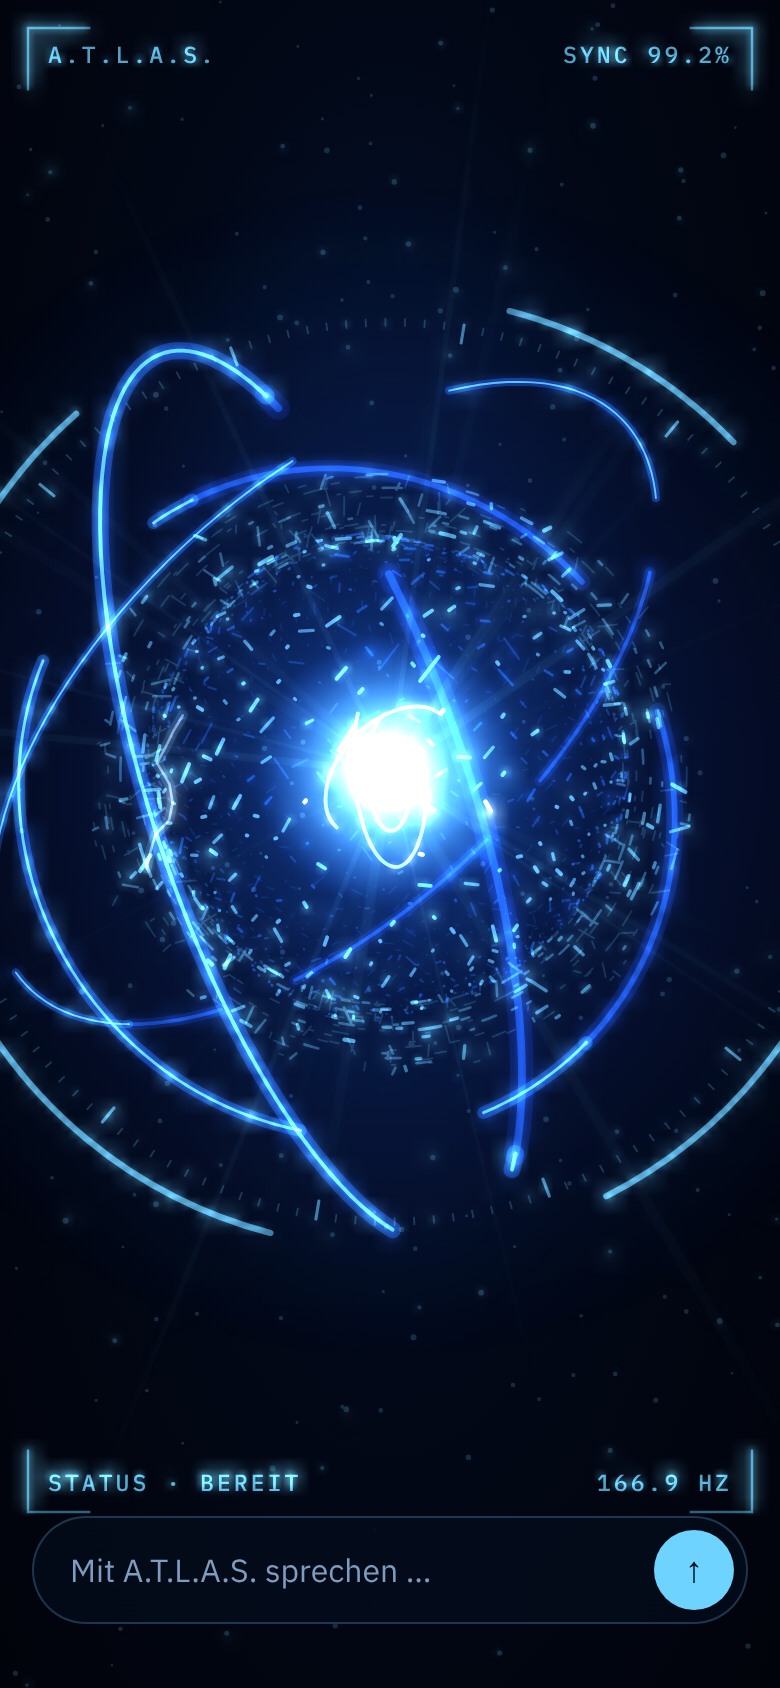
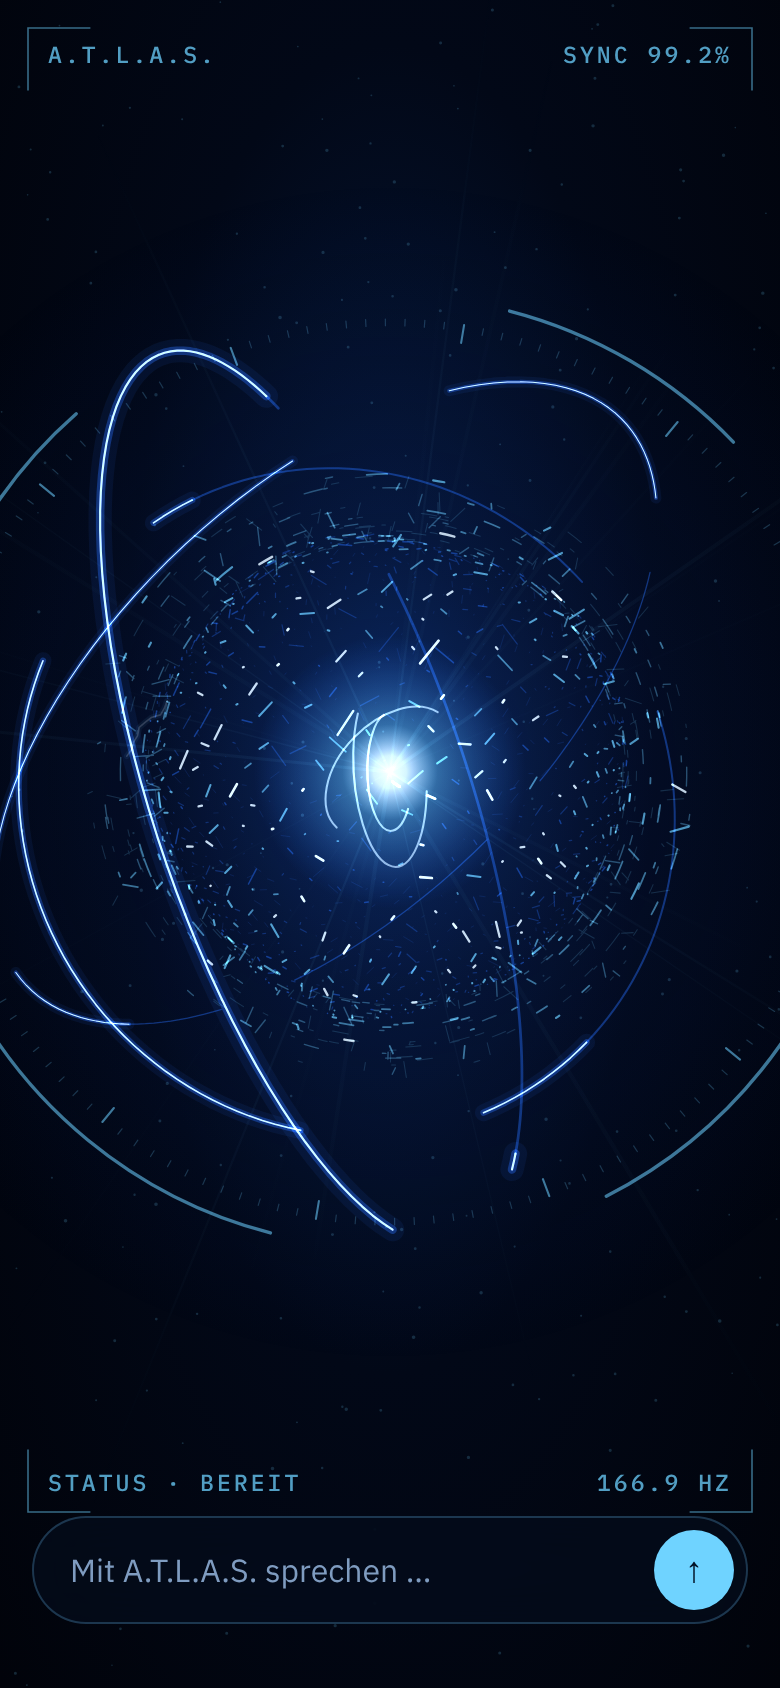
A.T.L.A.S.-Kern: schärfere, feinere Optik
Dünnere Lichtstreifen, Ringe mit hauchdünner heller Kante, feinere Splitter, HUD und Rahmen,
klarerer Plasmakern, weniger Dunst; mehr, dafür feinere Kugelpunkte.

Claude-Session: https://claude.ai/code/session_01Er7eh7iJrbStEKkddCDg1p

diff --git a/ATLAS/ATLAS/UI/Main/AtlasHologramView.swift b/ATLAS/ATLAS/UI/Main/AtlasHologramView.swift
@@ -7,7 +7,7 @@ import SwiftUI
 ///   schießen zu einem riesigen „A.T.L.A.S.“ zusammen (Blitz, Druckwelle, Beben), ein Scan-Strahl
 ///   fährt darüber, der Untertitel tippt sich ein – dann zerfällt der Schriftzug spiralförmig und
 ///   der Kern zündet.
-/// - Kern: Plasmakern, 3D-Kugel aus rund 1.200 Lichtstreifen, drei Gyroskop-Ringe, Energieblitze,
+/// - Kern: Plasmakern, 3D-Kugel aus rund 1.500 feinen Lichtstreifen, drei Gyroskop-Ringe, Energieblitze,
 ///   Splitter-Schale, Lichtstrahlen, schwebender Staub, HUD-Skala und Rahmen mit Telemetrie.
 /// - Reaktionen: Zuhören → Oberfläche folgt Ihrer Stimme; Nachdenken → schnellere Drehung, mehr
 ///   Blitze, Analyse-Strahl; Sprechen → Pulsieren im Wortrhythmus und Schallwellen.
@@ -122,7 +122,7 @@ struct AtlasHologramView: View {
     /// Gleichmäßig verteilte Punkte auf der Einheitskugel (Fibonacci-Gitter).
     fileprivate static let sphere: [SpherePoint] = {
         let random = AtlasHologramView.seeded(5)
-        let count = 1200
+        let count = 1500
         let golden = Double.pi * (3 - sqrt(5))
         return (0..<count).map { i in
             let y = 1 - 2 * (Double(i) + 0.5) / Double(count)
@@ -312,7 +312,7 @@ struct AtlasHologramView: View {
             var y = (d.y * h - t * 3 * d.z).truncatingRemainder(dividingBy: h)
             if x < 0 { x += w }
             if y < 0 { y += h }
-            let s = 0.4 + d.z * 1.1
+            let s = 0.25 + d.z * 0.65
             path.addEllipse(in: CGRect(x: x - s, y: y - s, width: s * 2, height: s * 2))
         }
         ctx.fill(path, with: .color(Self.iceColor.opacity(0.18)))
@@ -330,7 +330,7 @@ struct AtlasHologramView: View {
             path.addLine(to: end)
             ctx.stroke(path, with: .linearGradient(
                 Gradient(colors: [ice.opacity(alpha * 2), ice.opacity(0)]), startPoint: center, endPoint: end),
-                       lineWidth: ray.width * L.unit * 2)
+                       lineWidth: ray.width * L.unit * 0.8)
         }
     }
 
@@ -338,7 +338,7 @@ struct AtlasHologramView: View {
         let radius = L.R * 2.6
         ctx.fill(circle(L.cx, L.cy, radius), with: .radialGradient(
             Gradient(stops: [
-                .init(color: Self.blue.opacity(0.25 + 0.2 * en + 0.06 * pulse), location: 0),
+                .init(color: Self.blue.opacity(0.2 + 0.14 * en + 0.04 * pulse), location: 0),
                 .init(color: Self.deep.opacity(0.14 + 0.06 * en), location: 0.4),
                 .init(color: Self.deep.opacity(0), location: 1),
             ]), center: CGPoint(x: L.cx, y: L.cy), startRadius: 0, endRadius: radius))
@@ -350,8 +350,8 @@ struct AtlasHologramView: View {
         ctx.fill(circle(L.cx, L.cy, radius), with: .radialGradient(
             Gradient(stops: [
                 .init(color: Color.white.opacity(0.95), location: 0),
-                .init(color: Self.hot.opacity(0.8), location: 0.15),
-                .init(color: ice.opacity(0.35 + 0.2 * en), location: 0.45),
+                .init(color: Self.hot.opacity(0.9), location: 0.12),
+                .init(color: ice.opacity(0.35 + 0.15 * en), location: 0.35),
                 .init(color: Self.blue.opacity(0), location: 1),
             ]), center: CGPoint(x: L.cx, y: L.cy), startRadius: 0, endRadius: radius))
     }
@@ -381,14 +381,13 @@ struct AtlasHologramView: View {
                 }
             }
             let width = gyro.width * L.unit
-            ctx.stroke(back, with: .color(Self.deep.opacity(0.35)), style: StrokeStyle(lineWidth: width * 3, lineCap: .round))
-            ctx.stroke(back, with: .color(Self.blue.opacity(0.35)), style: StrokeStyle(lineWidth: width, lineCap: .round))
+                        ctx.stroke(back, with: .color(Self.blue.opacity(0.4)), style: StrokeStyle(lineWidth: width * 0.35, lineCap: .round))
             if backOnly { continue }
             ctx.stroke(front, with: .color(Self.blue.opacity(0.07 + 0.05 * en)),
-                       style: StrokeStyle(lineWidth: width * 6, lineCap: .round))
+                       style: StrokeStyle(lineWidth: width * 3, lineCap: .round))
             ctx.stroke(front, with: .color(Self.blue.opacity(0.3 + 0.2 * en)),
-                       style: StrokeStyle(lineWidth: width * 2.2, lineCap: .round))
-            ctx.stroke(front, with: .color(ice.opacity(0.65)), style: StrokeStyle(lineWidth: width * 0.5, lineCap: .round))
+                       style: StrokeStyle(lineWidth: width * 1.1, lineCap: .round))
+            ctx.stroke(front, with: .color(Self.hot.opacity(0.85)), style: StrokeStyle(lineWidth: width * 0.28, lineCap: .round))
         }
     }
 
@@ -408,7 +407,7 @@ struct AtlasHologramView: View {
                                       ax: ax + p.jitter * p.trail, cx: L.cx, cy: L.cy, R: L.R)
             let depth = (now.z + 1.15) / 2.3
             let twinkle = 0.6 + 0.4 * sin(t * (1.5 + p.seed * 3) + p.seed * 40)
-            let alpha = min(0.999, (0.04 + depth * depth) * twinkle * (0.8 + 0.35 * en))
+            let alpha = min(0.999, (0.04 + depth * depth) * twinkle * (1.05 + 0.4 * en))
             guard alpha >= 0.05 else { continue }
             let index = Int(alpha * Double(bucketCount))
             buckets[index].move(to: CGPoint(x: before.x, y: before.y))
@@ -416,7 +415,7 @@ struct AtlasHologramView: View {
         }
         for (index, path) in buckets.enumerated() where !path.isEmpty {
             let a = Double(index + 1) / Double(bucketCount)
-            let width = L.unit * (0.6 + Double(index) * 0.22)
+            let width = L.unit * (0.35 + Double(index) * 0.11)
             let color: Color = index >= bucketCount - 2 ? Self.hot : (index >= bucketCount - 4 ? ice : Self.blue)
             ctx.stroke(path, with: .color(color.opacity(a)), style: StrokeStyle(lineWidth: width, lineCap: .round))
         }
@@ -436,7 +435,7 @@ struct AtlasHologramView: View {
                 if step == 0 { path.move(to: point) } else { path.addLine(to: point) }
             }
             ctx.stroke(path, with: .color(Self.hot.opacity(0.5 + 0.35 * en)),
-                       style: StrokeStyle(lineWidth: 1.4 * L.unit, lineCap: .round))
+                       style: StrokeStyle(lineWidth: 0.8 * L.unit, lineCap: .round))
         }
     }
 
@@ -474,9 +473,9 @@ struct AtlasHologramView: View {
             }
             path.addLine(to: CGPoint(x: x2, y: y2))
             ctx.stroke(path, with: .color(ice.opacity(0.35 * (1 - k))),
-                       style: StrokeStyle(lineWidth: 4 * L.unit, lineCap: .round, lineJoin: .round))
+                       style: StrokeStyle(lineWidth: 2.2 * L.unit, lineCap: .round, lineJoin: .round))
             ctx.stroke(path, with: .color(Color.white.opacity(0.9 * (1 - k))),
-                       style: StrokeStyle(lineWidth: L.unit, lineCap: .round, lineJoin: .round))
+                       style: StrokeStyle(lineWidth: 0.6 * L.unit, lineCap: .round, lineJoin: .round))
         }
     }
 
@@ -486,7 +485,7 @@ struct AtlasHologramView: View {
         var buckets = [Path](repeating: Path(), count: bucketCount)
         for shard in Self.shards {
             let flicker = 0.55 + 0.45 * sin(t * shard.flicker + shard.phase)
-            let alpha = shard.brightness * flicker * (0.45 + 0.75 * en)
+            let alpha = shard.brightness * flicker * (0.6 + 0.8 * en)
             guard alpha >= 0.05 else { continue }
             let angle = shard.angle + shard.speed * t * spin
             let r = shard.radius * L.R * (1 + 0.012 * pulse + sin(t * 2 + shard.phase) * 0.01 * en)
@@ -510,7 +509,7 @@ struct AtlasHologramView: View {
         }
         for (index, path) in buckets.enumerated() where !path.isEmpty {
             let a = Double(index + 1) / Double(bucketCount)
-            let width = L.unit * (0.7 + Double(index) * 0.3)
+            let width = L.unit * (0.4 + Double(index) * 0.14)
             ctx.stroke(path, with: .color((index >= bucketCount - 2 ? Self.hot : ice).opacity(a)),
                        style: StrokeStyle(lineWidth: width, lineCap: .round))
         }
@@ -544,8 +543,8 @@ struct AtlasHologramView: View {
                 minor.move(to: from); minor.addLine(to: to)
             }
         }
-        ctx.stroke(minor, with: .color(ice.opacity(0.22)), lineWidth: 0.7 * L.unit)
-        ctx.stroke(major, with: .color(ice.opacity(0.55)), lineWidth: 1.2 * L.unit)
+        ctx.stroke(minor, with: .color(ice.opacity(0.22)), lineWidth: 0.45 * L.unit)
+        ctx.stroke(major, with: .color(ice.opacity(0.55)), lineWidth: 0.8 * L.unit)
 
         for i in 0..<4 {
             let start = Double(i) * .pi / 2 + 0.3 - t * 0.18 * spin
@@ -554,7 +553,7 @@ struct AtlasHologramView: View {
             arc.addArc(center: CGPoint(x: L.cx, y: L.cy), radius: scaleR + 9 * L.unit,
                        startAngle: .radians(start), endAngle: .radians(start + span), clockwise: false)
             ctx.stroke(arc, with: .color(ice.opacity(0.5 + 0.3 * en)),
-                       style: StrokeStyle(lineWidth: 2.4 * L.unit, lineCap: .round))
+                       style: StrokeStyle(lineWidth: 1.3 * L.unit, lineCap: .round))
         }
 
         if state == .thinking {
@@ -586,7 +585,7 @@ struct AtlasHologramView: View {
             brackets.addLine(to: CGPoint(x: c.x, y: c.y))
             brackets.addLine(to: CGPoint(x: c.x + c.sx * length, y: c.y))
         }
-        ctx.stroke(brackets, with: .color(ice.opacity(0.45)), lineWidth: 1.2)
+        ctx.stroke(brackets, with: .color(ice.opacity(0.5)), lineWidth: 0.8)
 
         var text = ctx
         text.blendMode = .normal
@@ -672,7 +671,7 @@ extension AtlasHologramView {
                     theta0: random() * 2 * .pi,
                     omega: direction * (0.6 + 0.9 * random()) / (0.3 + radius),
                     radius: radius, phase: random() * 2 * .pi, phase2: random() * 2 * .pi,
-                    size: 0.6 + random() * 1.3, delay: random() * 0.25,
+                    size: 0.45 + random() * 0.9, delay: random() * 0.25,
                     tx: L.cx + target.0 + (random() - 0.5) * step * 0.5,
                     ty: L.cy + target.1 + (random() - 0.5) * step * 0.5,
                     sphereIndex: (i * 7) % AtlasHologramView.sphere.count))
@@ -801,7 +800,7 @@ extension AtlasHologramView {
                 let color = index >= bucketCount - 2 ? AtlasHologramView.hot
                     : (index >= bucketCount - 4 ? AtlasHologramView.iceColor : AtlasHologramView.blue)
                 ctx.stroke(path, with: .color(AtlasHologramView.blue.opacity(a * 0.3)),
-                           style: StrokeStyle(lineWidth: widths[index] * 2.6, lineCap: .round, lineJoin: .round))
+                           style: StrokeStyle(lineWidth: widths[index] * 1.8, lineCap: .round, lineJoin: .round))
                 ctx.stroke(path, with: .color(color.opacity(a)),
                            style: StrokeStyle(lineWidth: widths[index], lineCap: .round, lineJoin: .round))
             }
